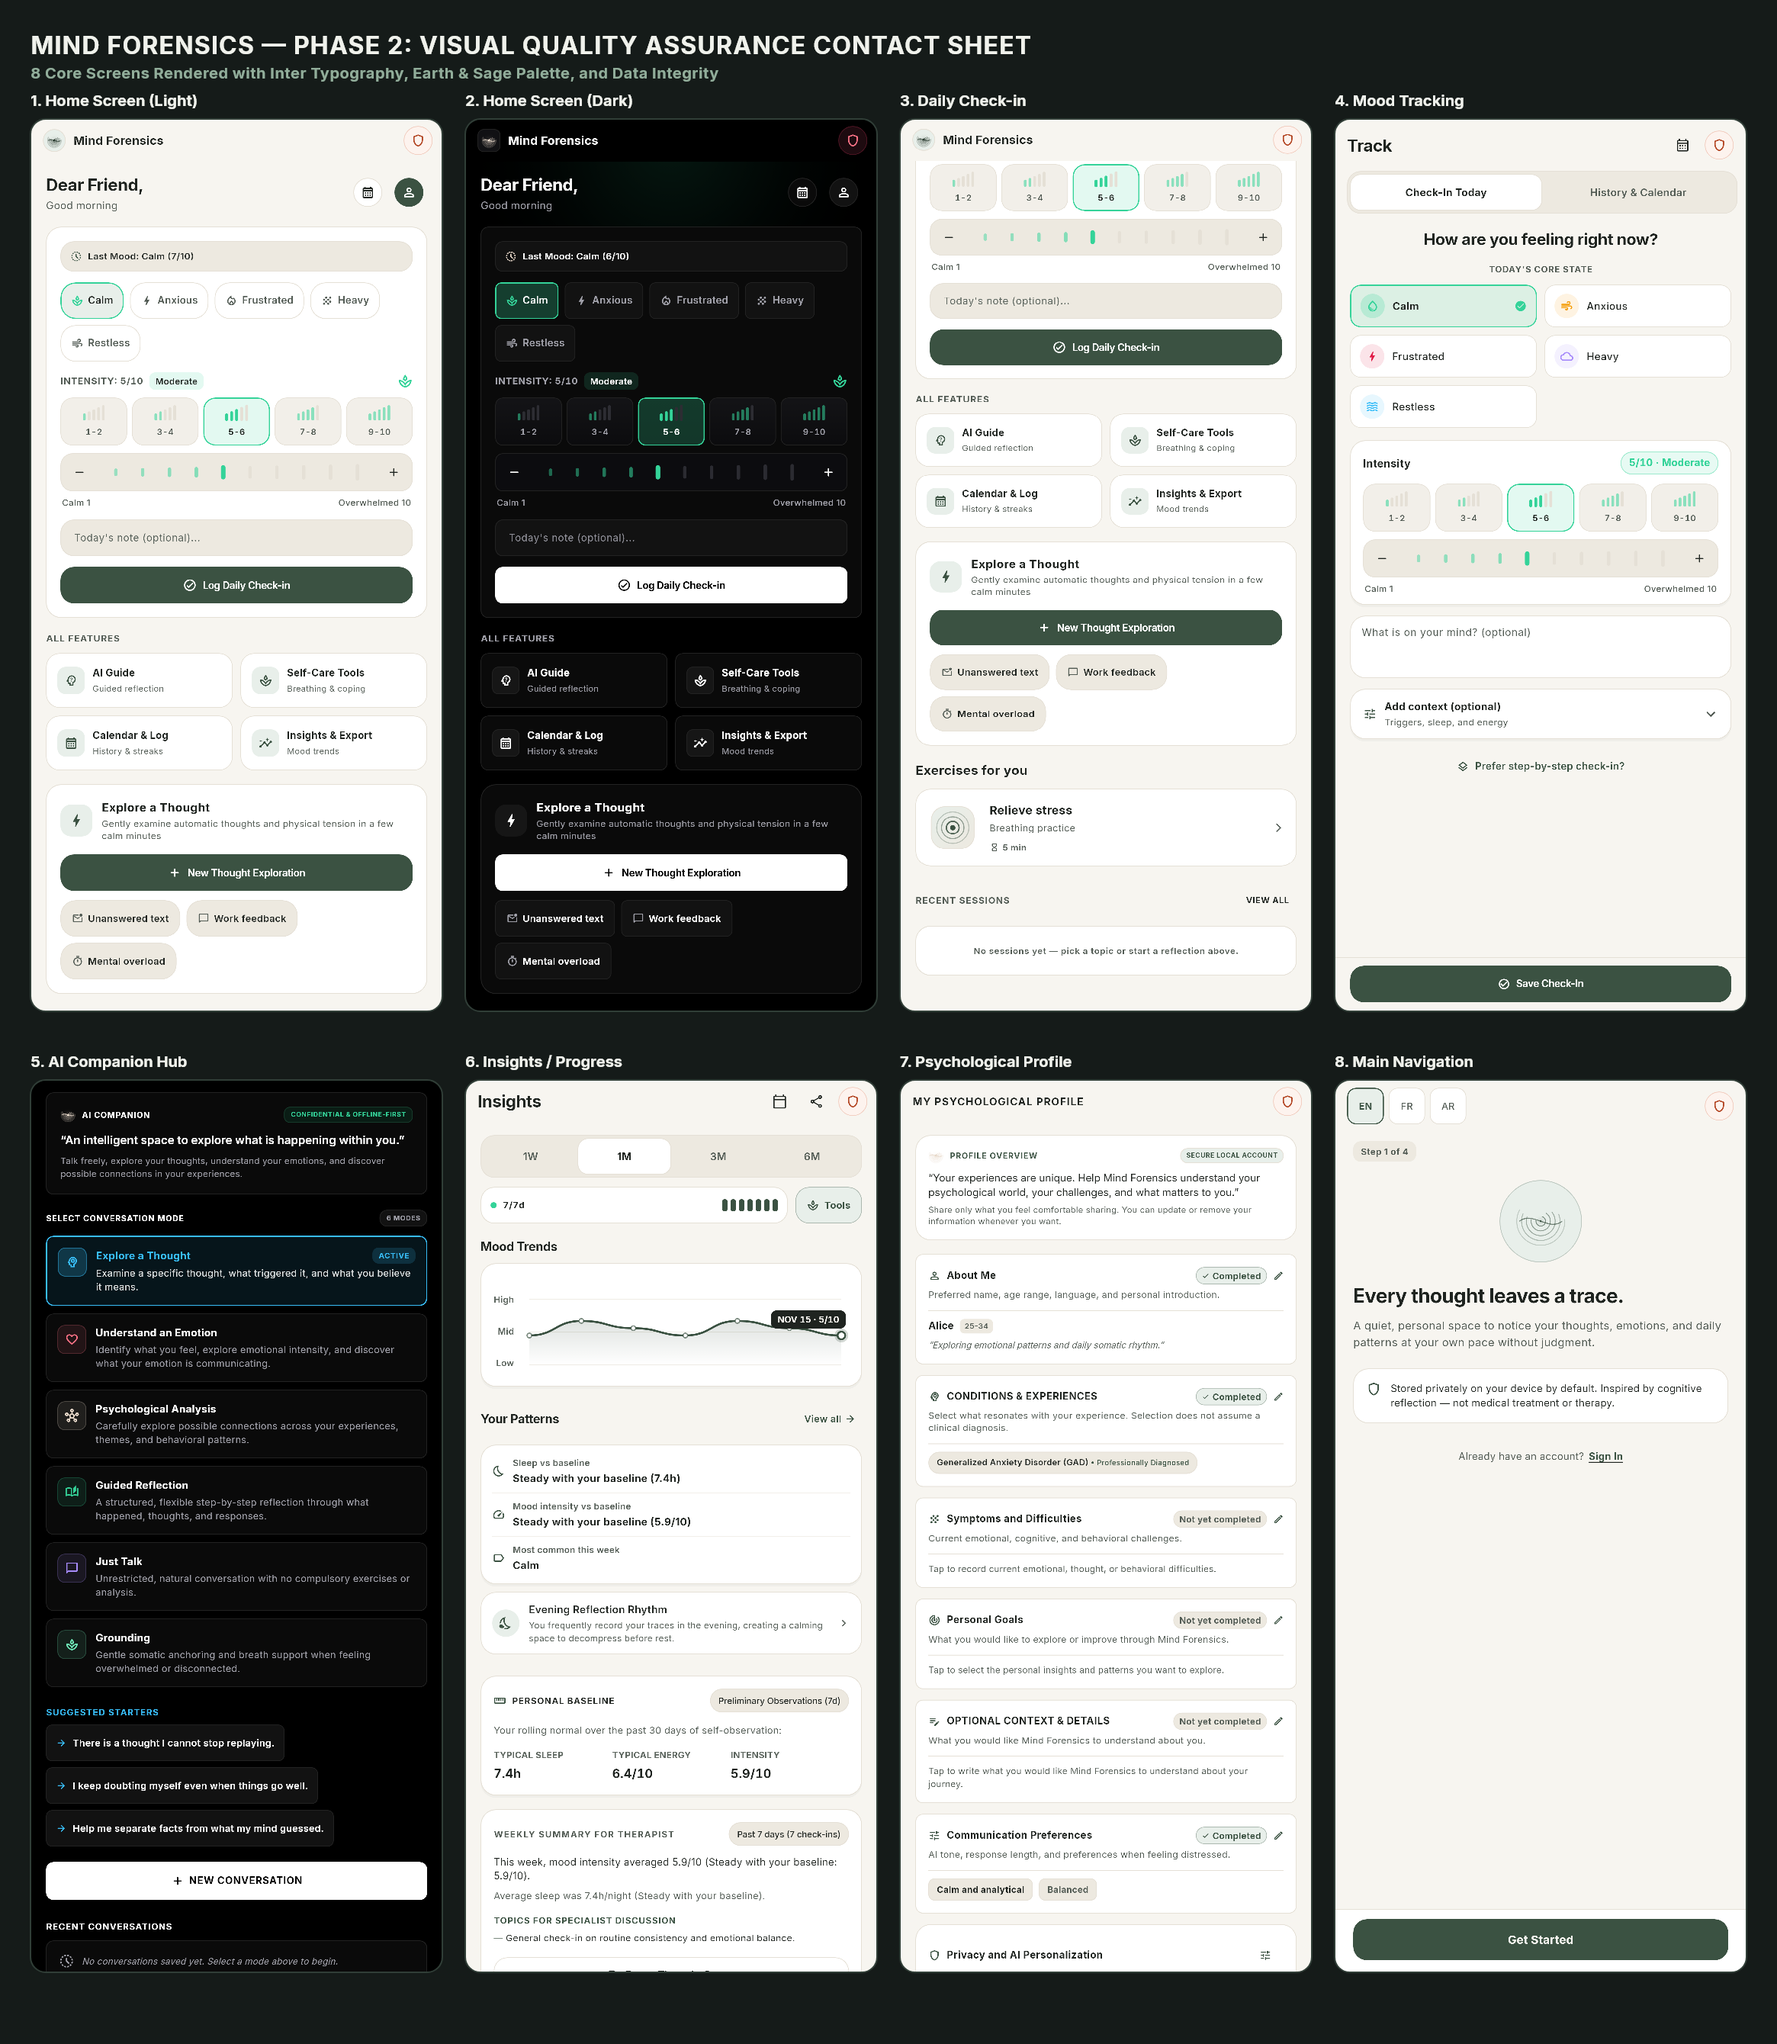
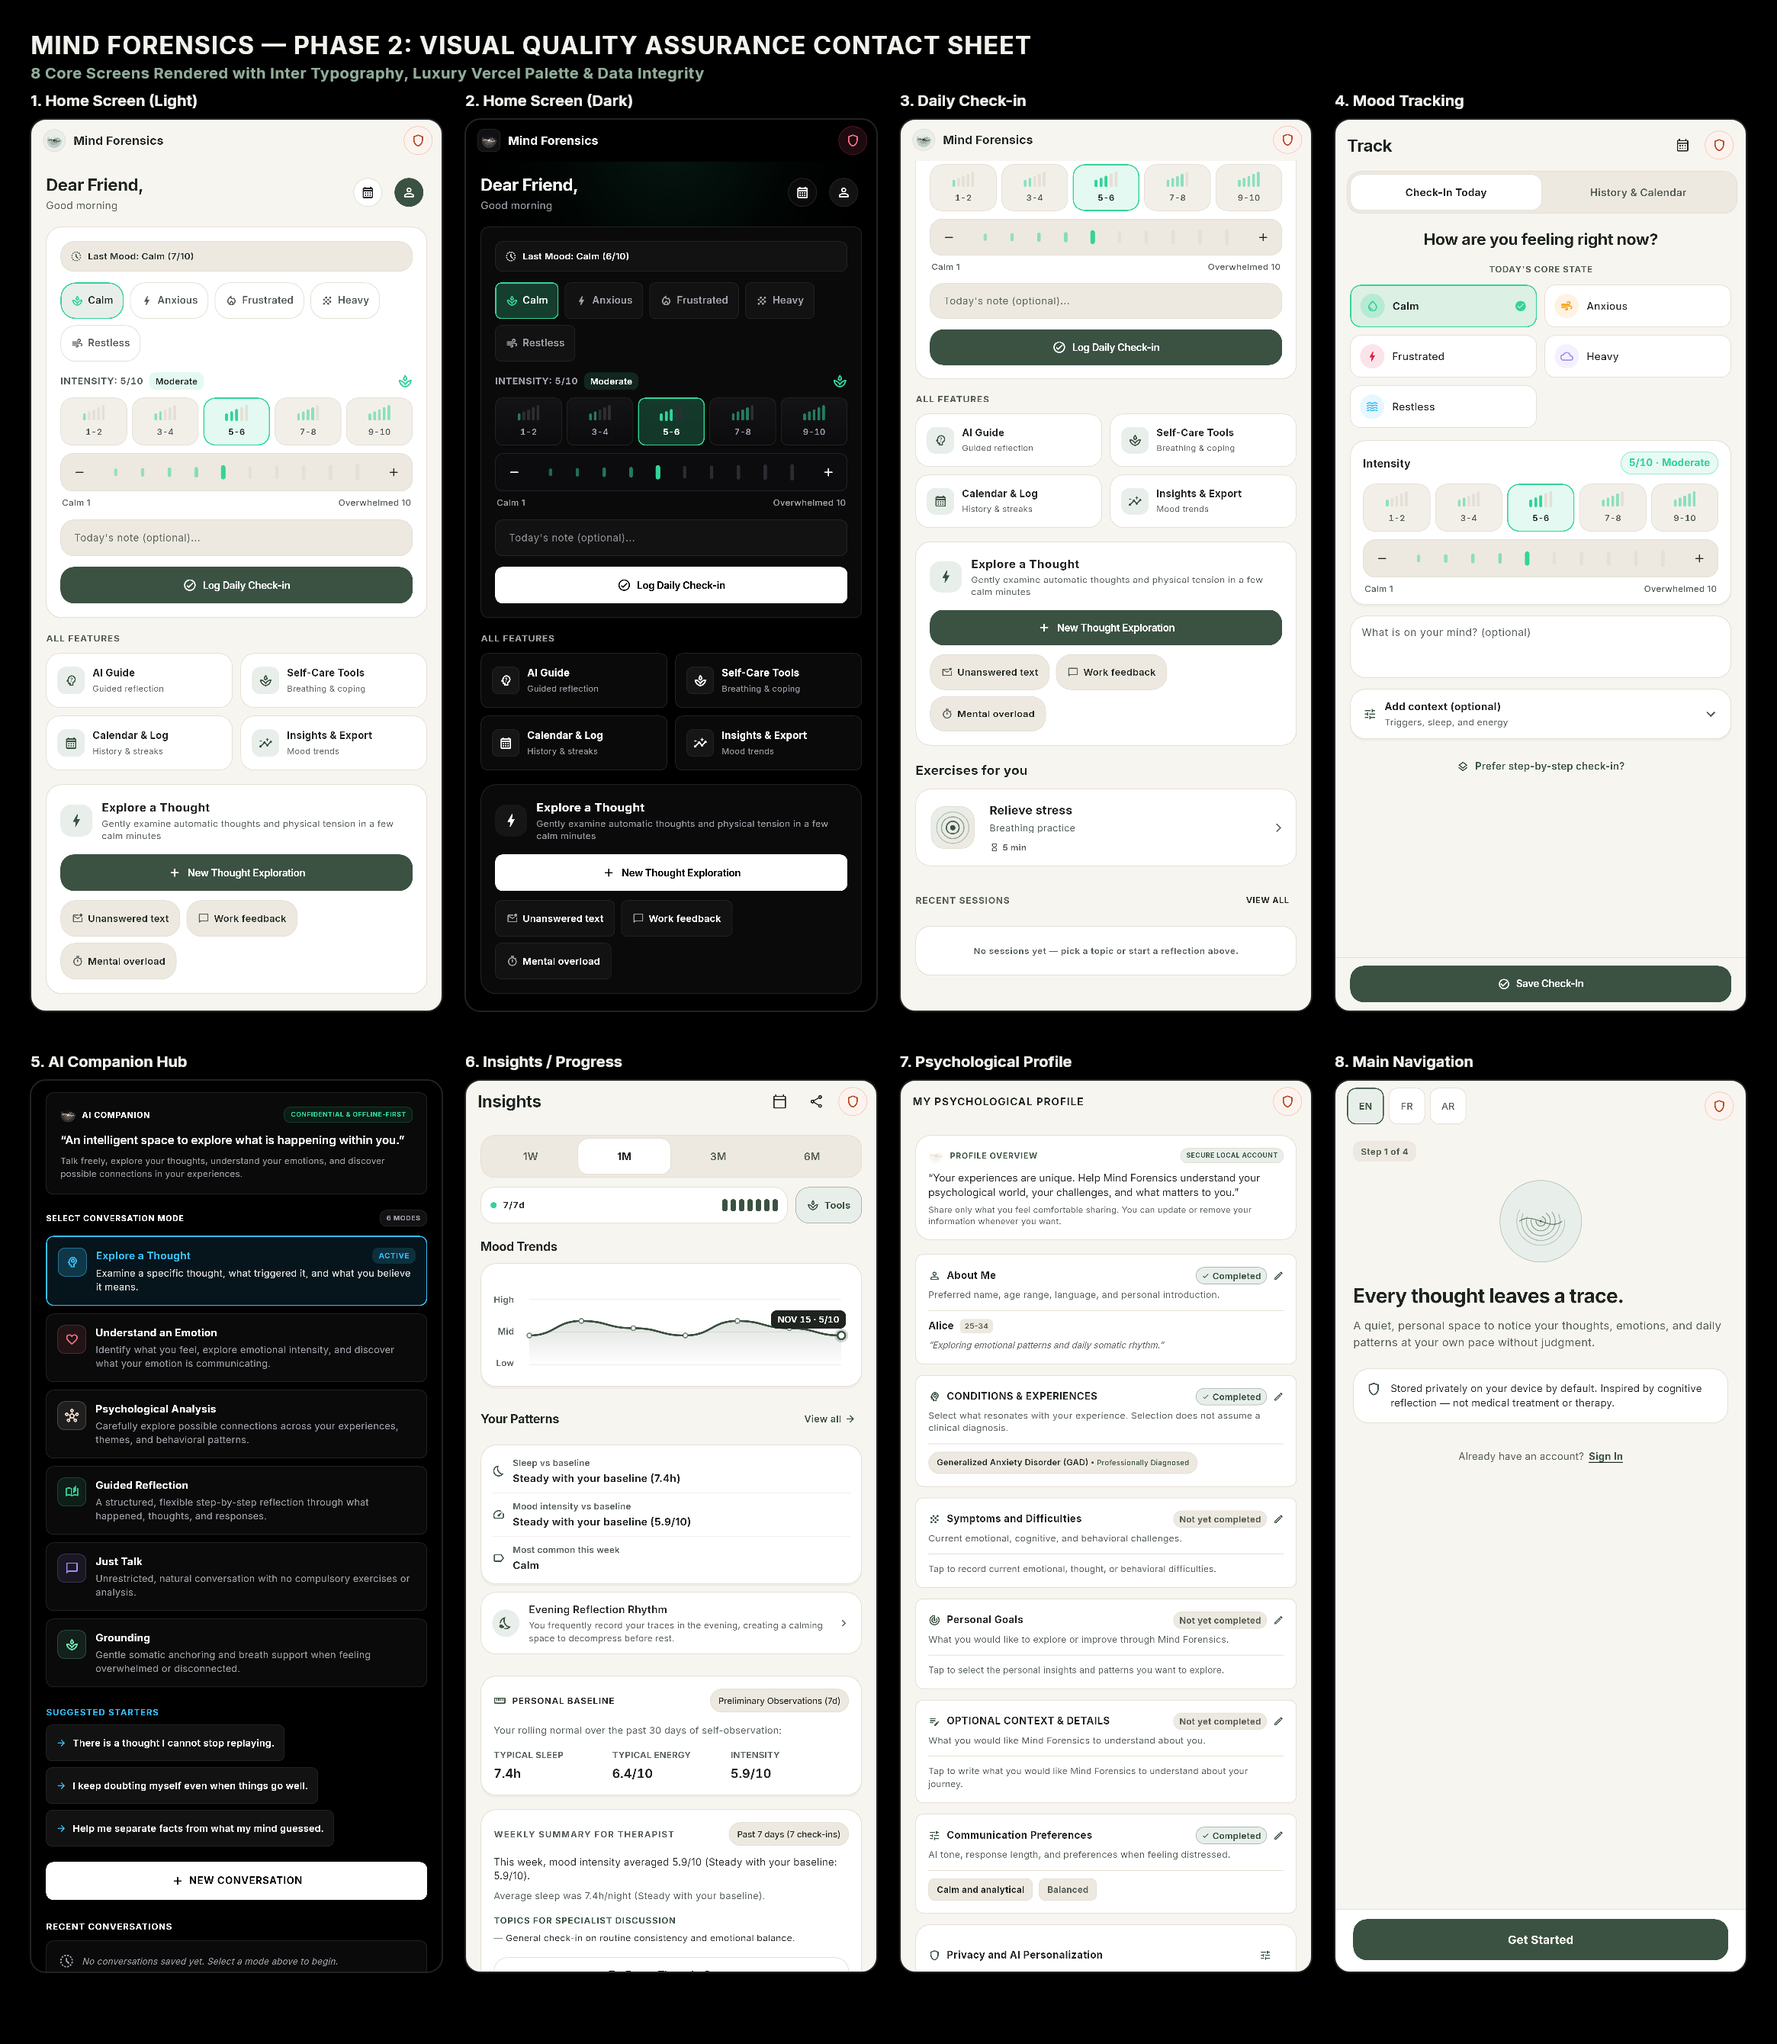
chore(qa): update VQA contact sheet to Luxury Vercel Dark & verify final release gate

Changed region(s): [[0.0, 0.0, 1.0, 1.0]]

diff --git a/test/contact_sheet_generator_test.dart b/test/contact_sheet_generator_test.dart
@@ -48,7 +48,7 @@ void main() {
     final canvas = Canvas(recorder, const Rect.fromLTWH(0, 0, totalW, totalH));
 
     // Background
-    final bgPaint = Paint()..color = const Color(0xFF151B19);
+    final bgPaint = Paint()..color = const Color(0xFF000000);
     canvas.drawRect(const Rect.fromLTWH(0, 0, totalW, totalH), bgPaint);
 
     // Header Title
@@ -70,7 +70,7 @@ void main() {
     // Subtitle
     final subPainter = TextPainter(
       text: const TextSpan(
-        text: '8 Core Screens Rendered with Inter Typography, Earth & Sage Palette, and Data Integrity',
+        text: '8 Core Screens Rendered with Inter Typography, Luxury Vercel Palette & Data Integrity',
         style: TextStyle(
           color: Color(0xFF91AD9A),
           fontSize: 20,
@@ -111,7 +111,7 @@ void main() {
 
       // Border behind image
       final borderPaint = Paint()
-        ..color = const Color(0xFF303E37)
+        ..color = const Color(0xFF222222)
         ..style = PaintingStyle.stroke
         ..strokeWidth = 2.0;
       final rrect = RRect.fromRectAndRadius(imgRect, const Radius.circular(20));
